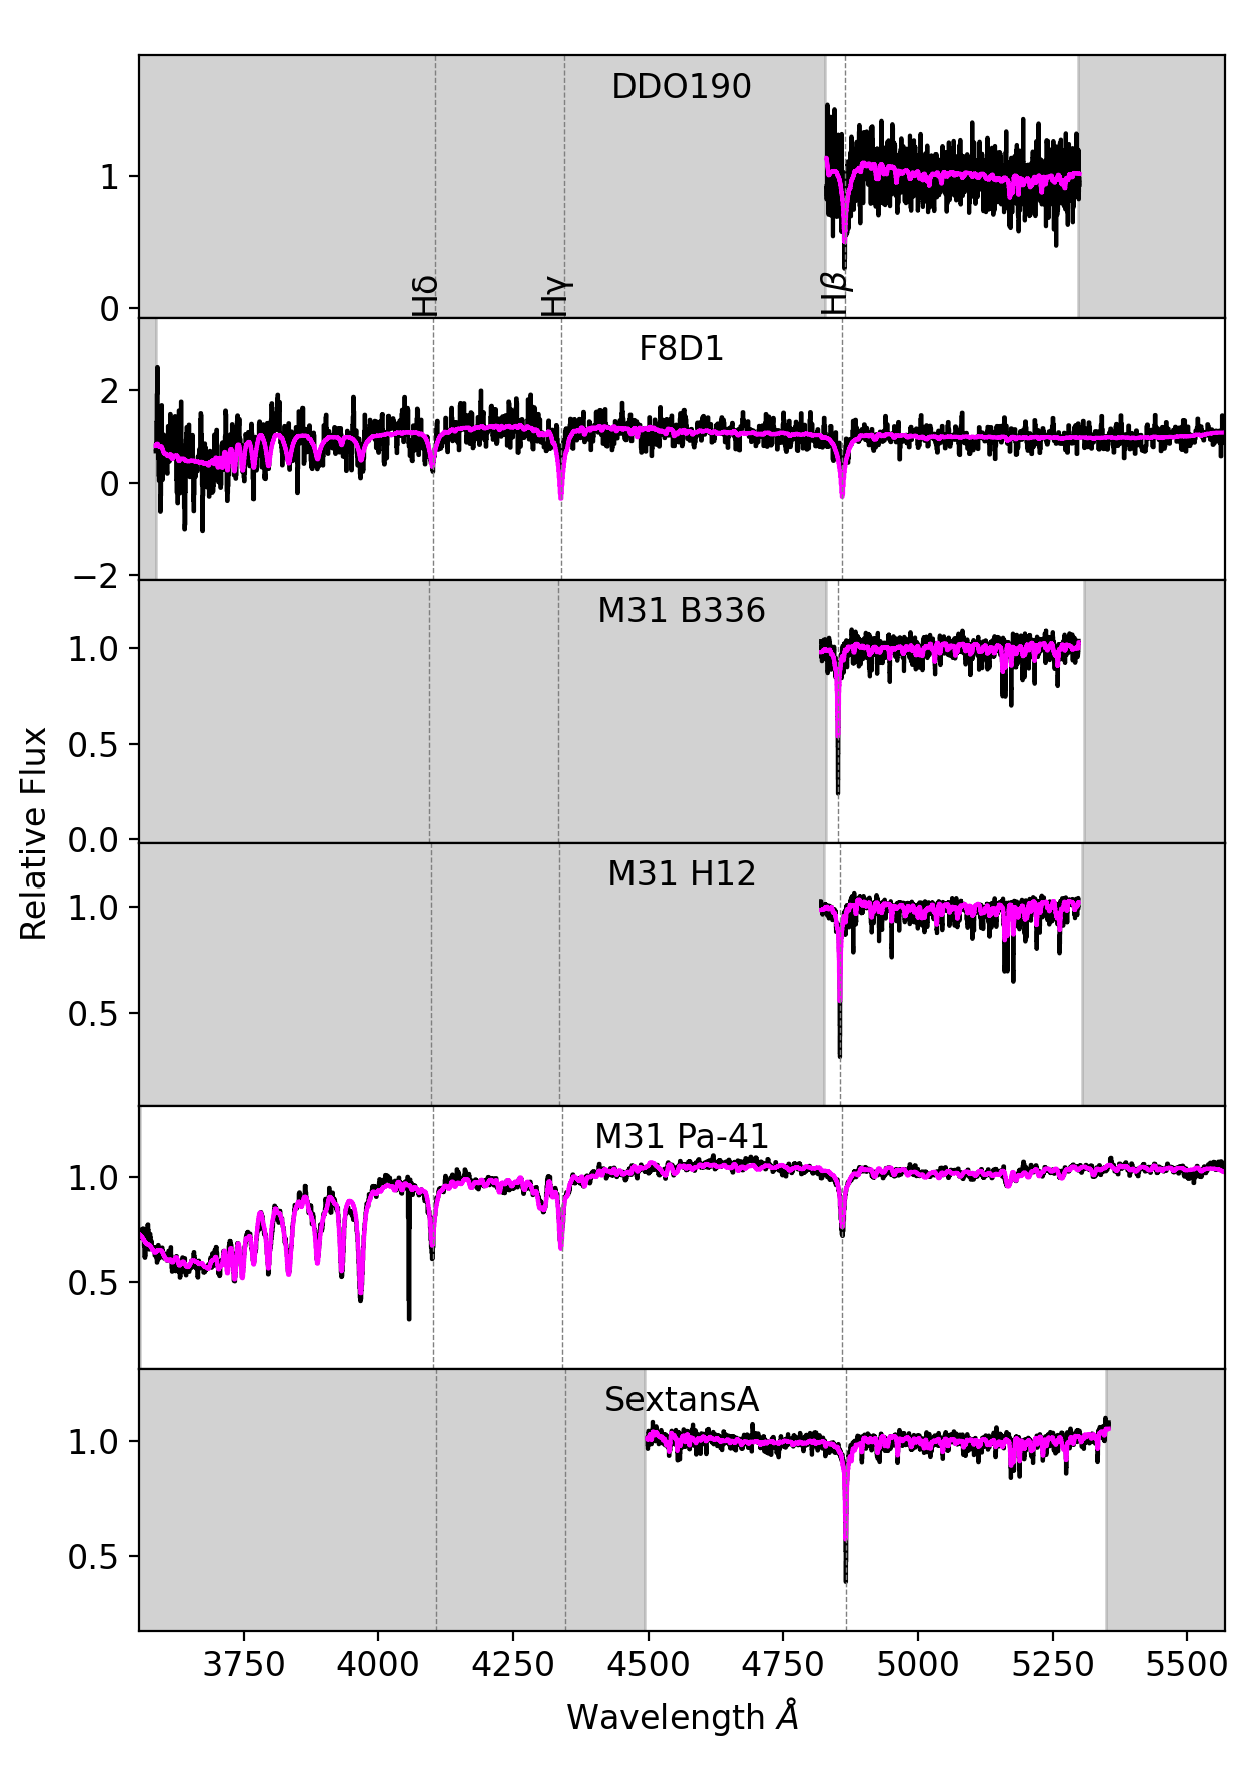
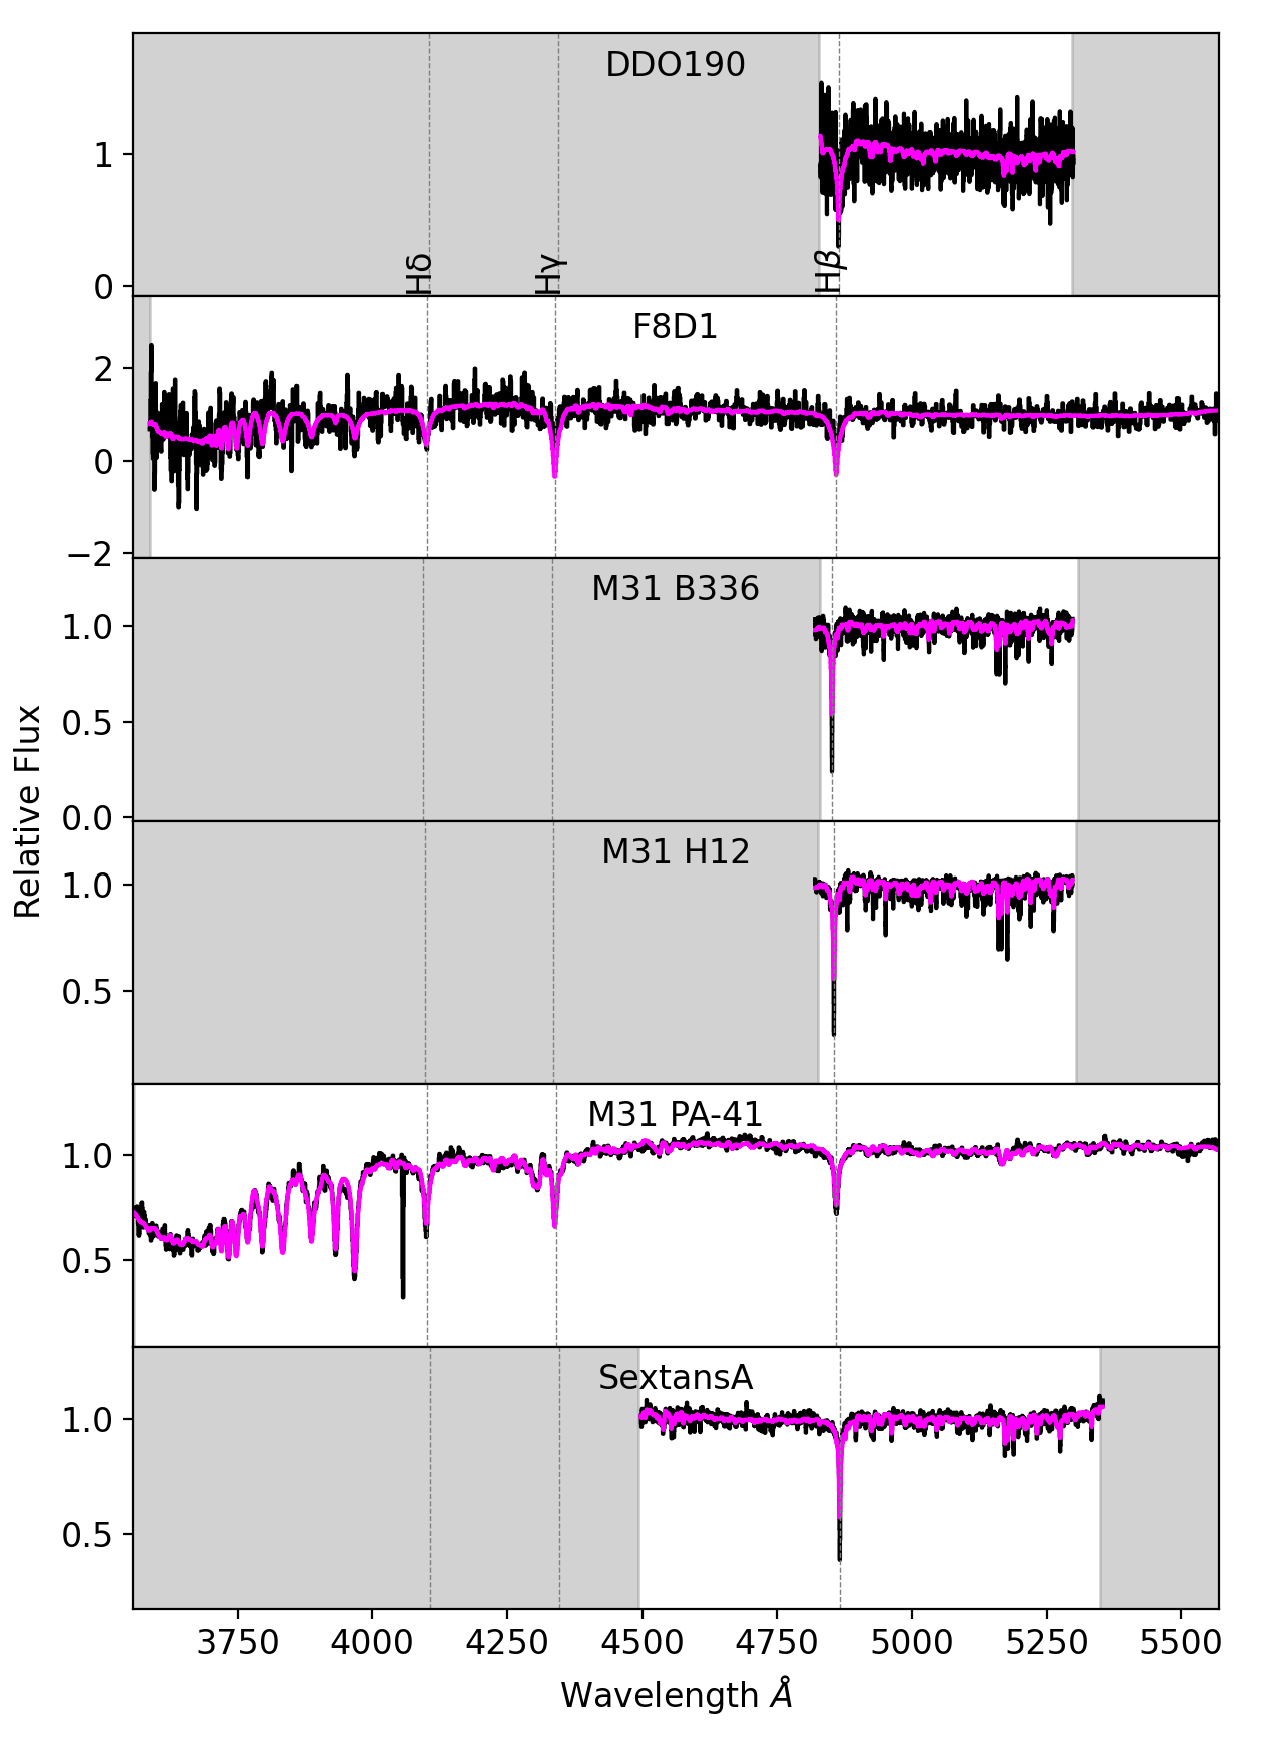
final

diff --git a/scripts/spec_plot_fit.py b/scripts/spec_plot_fit.py
@@ -7,28 +7,28 @@ parent = os.getcwd()
 
 
 """ NGC 247"""
-file_path1 = parent + "/results_GC/NGC_247/GCs/obj1/spec.txt"
-file_path2 = parent + "/results_GC/NGC_247/GCs/obj2/spec.txt"
-file_path3 = parent + "/results_GC/NGC_247/GCs/obj3/spec.txt"
-file_path4 = parent + "/results_GC/NGC_247/GCs2/obj1/spec.txt"
-file_path5 = parent + "/results_GC/NGC_247/GCs2/obj2/spec.txt"
-file_path6 = parent + "/results_GC/NGC_247/GCs2/obj3/spec.txt"
+# file_path1 = parent + "/results_GC/NGC_247/GCs/obj1/spec.txt"
+# file_path2 = parent + "/results_GC/NGC_247/GCs/obj2/spec.txt"
+# file_path3 = parent + "/results_GC/NGC_247/GCs/obj3/spec.txt"
+# file_path4 = parent + "/results_GC/NGC_247/GCs2/obj1/spec.txt"
+# file_path5 = parent + "/results_GC/NGC_247/GCs2/obj2/spec.txt"
+# file_path6 = parent + "/results_GC/NGC_247/GCs2/obj3/spec.txt"
 
-files = [file_path1, file_path2, file_path3, file_path4, file_path5, file_path6]
-names = ["GC1", "GC2", "GC3", "GC4", "GC5", "GC6"]
-redshifts = [0.000278, 0.0001811, 0.000137, 0.000256, 0.000286, 0.000305]
+# files = [file_path1, file_path2, file_path3, file_path4, file_path5, file_path6]
+# names = ["GC1", "GC2", "GC3", "GC4", "GC5", "GC6"]
+# redshifts = [0.000278, 0.0001811, 0.000137, 0.000256, 0.000286, 0.000305]
 
 
 """ Other candidates """
-# file_path1 = parent + "/results_GC/DDO190/obj1/spec.txt"
-# file_path2 = parent + "/results_GC/F8D1/obj1/spec.txt"
-# file_path3 = parent + "/results_GC/M31_B336/obj1/spec.txt"
-# file_path4 = parent + "/results_GC/M31_H12/obj1/spec.txt"
-# file_path5 = parent + "/results_GC/M31_PANDAS_41/obj1/spec.txt"
-# file_path6 = parent + "/results_GC/Sextans_A_GC1/obj1/spec.txt"
-# files = [file_path1, file_path2, file_path3, file_path4, file_path5, file_path6]
-# names = ["DDO190", "F8D1", "M31 B336", "M31 H12", "M31 Pa-41", "SextansA"]
-# redshifts = [0.000535, -0.000359, -0.0019824, -0.001262, -0.000351, 0.0009887]
+file_path1 = parent + "/results_GC/DDO190/obj1/spec.txt"
+file_path2 = parent + "/results_GC/F8D1/obj1/spec.txt"
+file_path3 = parent + "/results_GC/M31_B336/obj1/spec.txt"
+file_path4 = parent + "/results_GC/M31_H12/obj1/spec.txt"
+file_path5 = parent + "/results_GC/M31_PANDAS_41/obj1/spec.txt"
+file_path6 = parent + "/results_GC/Sextans_A_GC1/obj1/spec.txt"
+files = [file_path1, file_path2, file_path3, file_path4, file_path5, file_path6]
+names = ["DDO190", "F8D1", "M31 B336", "M31 H12", "M31 PA-41", "SextansA"]
+redshifts = [0.000535, -0.000359, -0.0019824, -0.001262, -0.000351, 0.0009887]
 
 n_files = len(files)
 fig, axes = plt.subplots(n_files, 1, figsize=(7, 5*n_files), sharex=True)

diff --git a/README.md b/README.md
@@ -5,9 +5,9 @@ This repository contains code and results for the 2023/24 CAS Summer Project "Un
 ## Introduction
 15 Globular Cluster (GC) candidates are analysed to determine if they are true GCs or not. To do this, the python package `pPXF` is used to fit stellar templates to our spectra. First, the recessional velocity is fit to determine if the candidates are associated with their host galaxy. If candidates are not, then they are very likely not GCs. 3/15 candidates were not associated - 5P, 10P, & IKN - being two AGNs and a background galaxy respectively. 12/15 candidates were associated with thier host galaxy and so were each fit again with 256 input parameters combinations (15 kinematic and 15 multiplicated polynomials). The median age and metallicity from the 256 fits are taken to be the results with the 16th and 84th percentiles being the lower and upper error bounds respectively. 
 
-7 GC candidates were confirmed - GC2,4,5,6, H12, PA-41, & Sextans.
+8 GC candidates were confirmed - GC2,4,5,6, B336, H12, PA-41, & Sextans.
 2 GC candidates were too young - GC1,3.
-3 GC candidates fits could not be adequately determined.
+2 GC candidates fits could not be adequately determined - DDO190, F8D1.
 
 ## Code
 All code required to analyse the data is located in `/scripts/`.
@@ -16,7 +16,7 @@ All code required to analyse the data is located in `/scripts/`.
 
 `ppxf_fit.ipynb` for checking recessional velocities.
 
-`Redshift_Spectra_Display.ipynb` for visualising spectra.
+`Redshift_Spectra_Display.ipynb` for visualising AGN/galaxy spectra.
 
 `mp_stellar_pops.py` for running 256 parameter inputs to get age & metallicity.
 
@@ -26,13 +26,13 @@ Other files include some helper scripts and plotting scripts for paper
 
 `agn_plot_fit.py` for the AGN & galaxy spectra
 
-`spec_plot_fit.py` for the other candidates
+`spec_plot_fit.py` for the NGC247 & other candidates
 
 ## Velocity Fits
-Candidates are checked to ensure their velocity aligns with the host galaxy. Results of this are in `/results_GC/`. This directory also contains files that were cleaned and stacked with `cube_clean_n_stack.ipynb` to create single spectra files the fitting was done with. All results of the fitting and input parameters are stored in `/results_GC/results.ods`. Final fits are stored in `/results_GC/fits/`.
+Candidates are checked to ensure their velocity aligns with the host galaxy. Results of this are in `/results_GC/`. This directory also contains files that were cleaned and stacked with `cube_clean_n_stack.ipynb` to create single spectra files the fitting was done with. All results of the fitting and input parameters are stored in `results_GC.csv`. Final fits are stored in `/results_GC/fits/`.
 
 ## Stellar Pops
-Stellar population fits run with `mp_stellar_pops.py` are located in `/results_SP/` and can be visualised with `fitting_results_ppxf_explore.py`. Results and input parameter values are stored in `/results_SP/results.ods`.
+Stellar population fits run with `mp_stellar_pops.py` are located in `/results_SP/` and can be visualised with `fitting_results_ppxf_explore.py`. Results and input parameter values are stored in `/results.csv`.
 
 ## Images
 `/images/` contains images of the candidates. Most are from HST: GC1-6, DDO190, F8D1, PA-41, & B336. H12 image is from the SDSS DR14 Finding Chart. 5P, 10P, IKN, & Sextans are from Legacy Sky Survey DR9.
